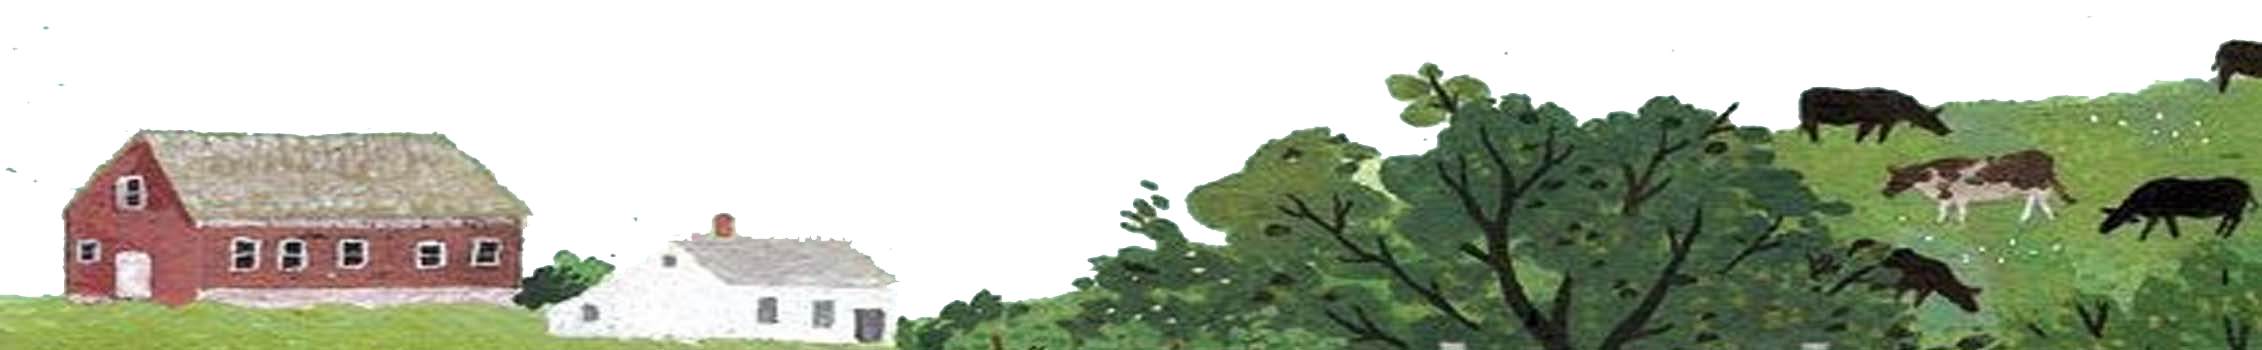
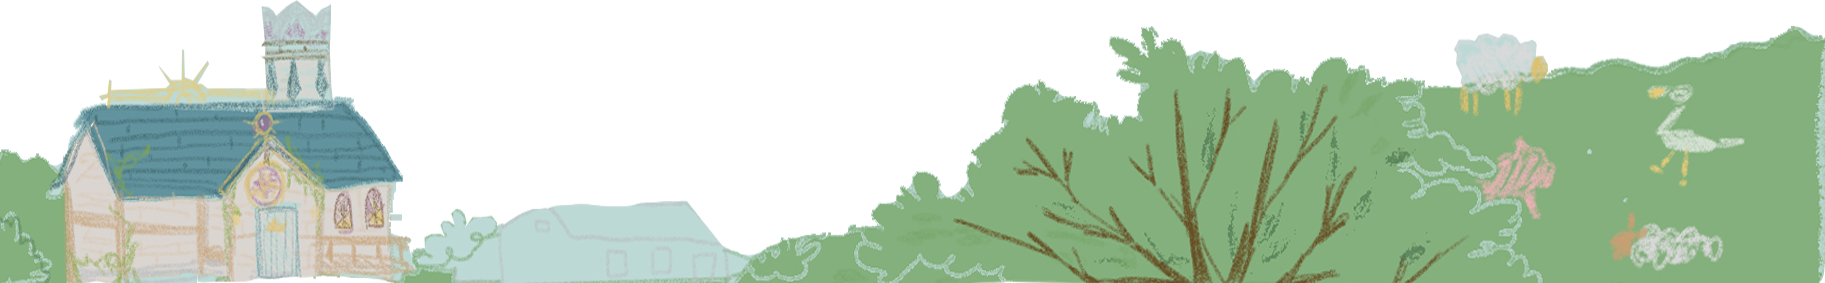
홈페이지 헤더 이미지 변경, special thanks 추가

diff --git a/FarmFind/src/main/webapp/resources/css/styles.css b/FarmFind/src/main/webapp/resources/css/styles.css
@@ -685,8 +685,8 @@ progress {
   display: flex;
   flex-wrap: wrap;
   margin-top: calc(-1 * var(--bs-gutter-y));
-  margin-right: calc(-0.5 * var(--bs-gutter-x));
-  margin-left: calc(-0.5 * var(--bs-gutter-x));
+  /*margin-right: calc(-0.5 * var(--bs-gutter-x));*/
+  /*margin-left: calc(-0.5 * var(--bs-gutter-x));*/
 }
 .row > * {
   flex-shrink: 0;
@@ -10836,9 +10836,13 @@ textarea.form-control-lg {
 /* navbar 세팅 */
 
 #mainNav {
-  padding-top: 1rem;
-  padding-bottom: 1rem;
-  background-color: #212529;
+   padding-top: 1.5rem;
+    padding-bottom: 1.5rem;
+    border: none;
+    background-color: transparent;
+    transition: padding-top 0.3s ease-in-out, padding-bottom 0.3s ease-in-out;
+    background-color: rgba(255, 255, 255, .1);
+	backdrop-filter: blur(2px);
 }
 #mainNav .navbar-toggler {
   padding: 0.75rem;
@@ -10857,6 +10861,7 @@ textarea.form-control-lg {
 /*#mainNav .navbar-brand img {
   height: 1.5rem;
 }*/
+
 #mainNav .navbar-nav .nav-item .nav-link {
   font-family: 'NotoSansKR-Thin';
   letter-spacing: 0.0625em;
